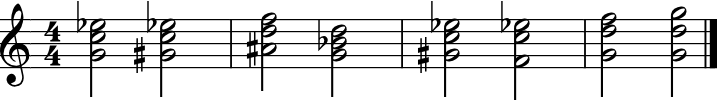
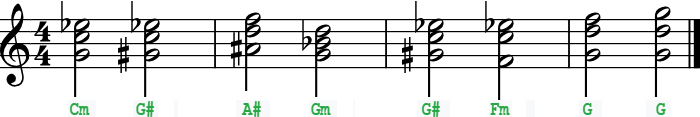
max5

diff --git a/index.html b/index.html
@@ -28281,7 +28281,7 @@ F#m      A   E
             <div class="content">        
 <song>
 <intro><img imagetype="scores" data-src="maxim.son.3.png">
-Cm G# | A# Gm | G# Fm | G  G <bblue>x2</bblue></intro>
+<bblue>x2</bblue></intro>
 <verse><bblue>одиночные ноты/короткие фразы на Synth</bblue>
    Cm          Fm
 Здравствуй, я долго здесь
